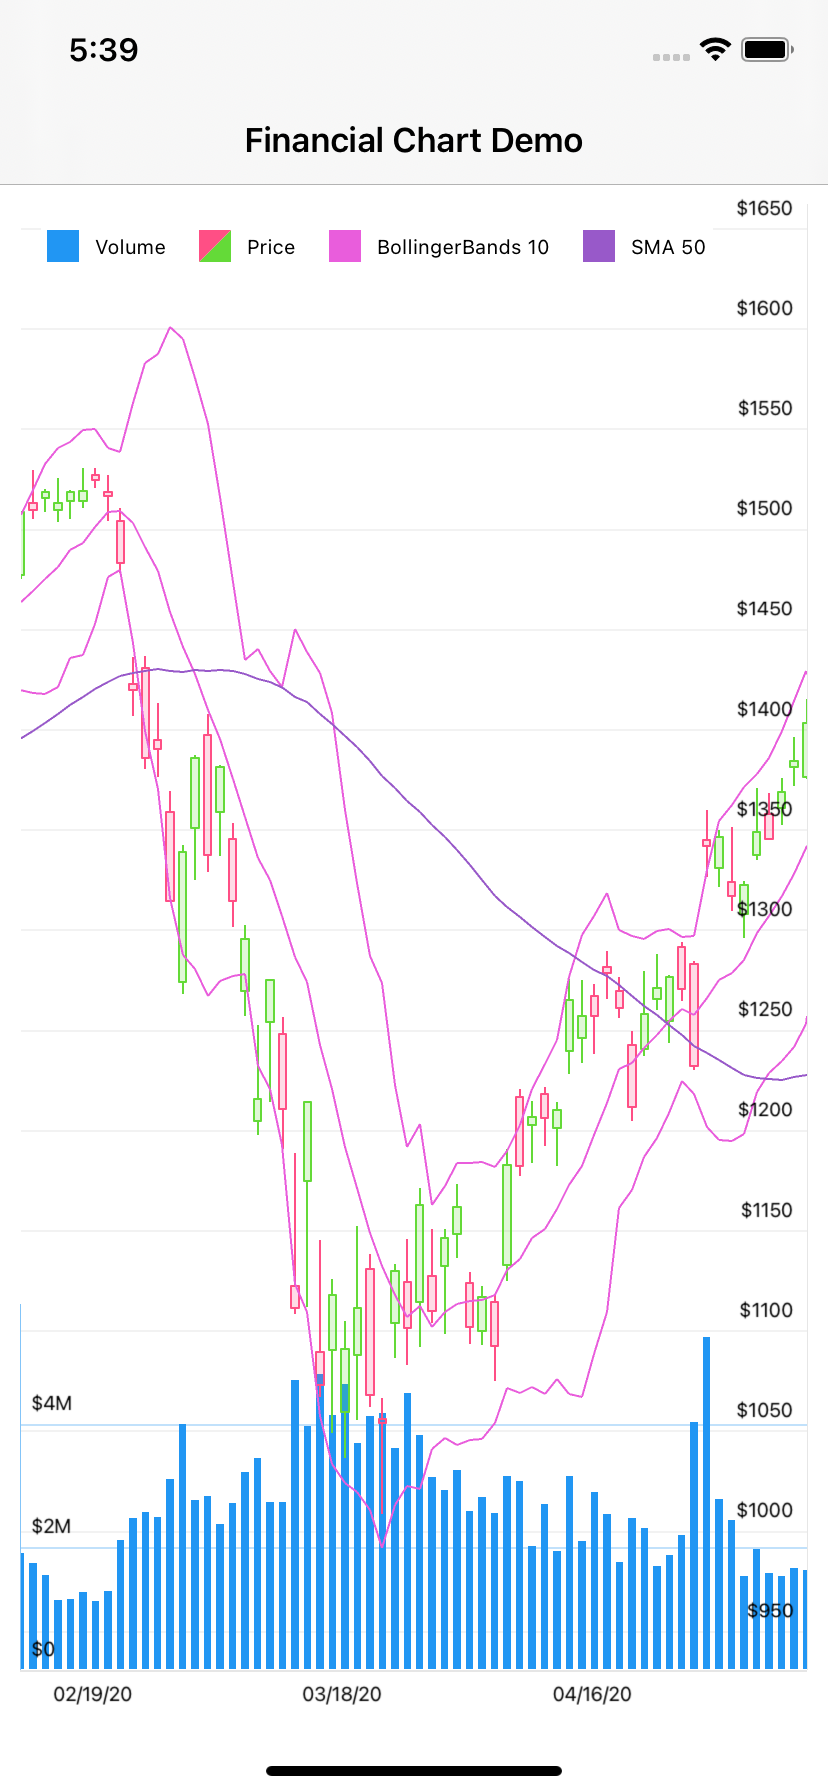
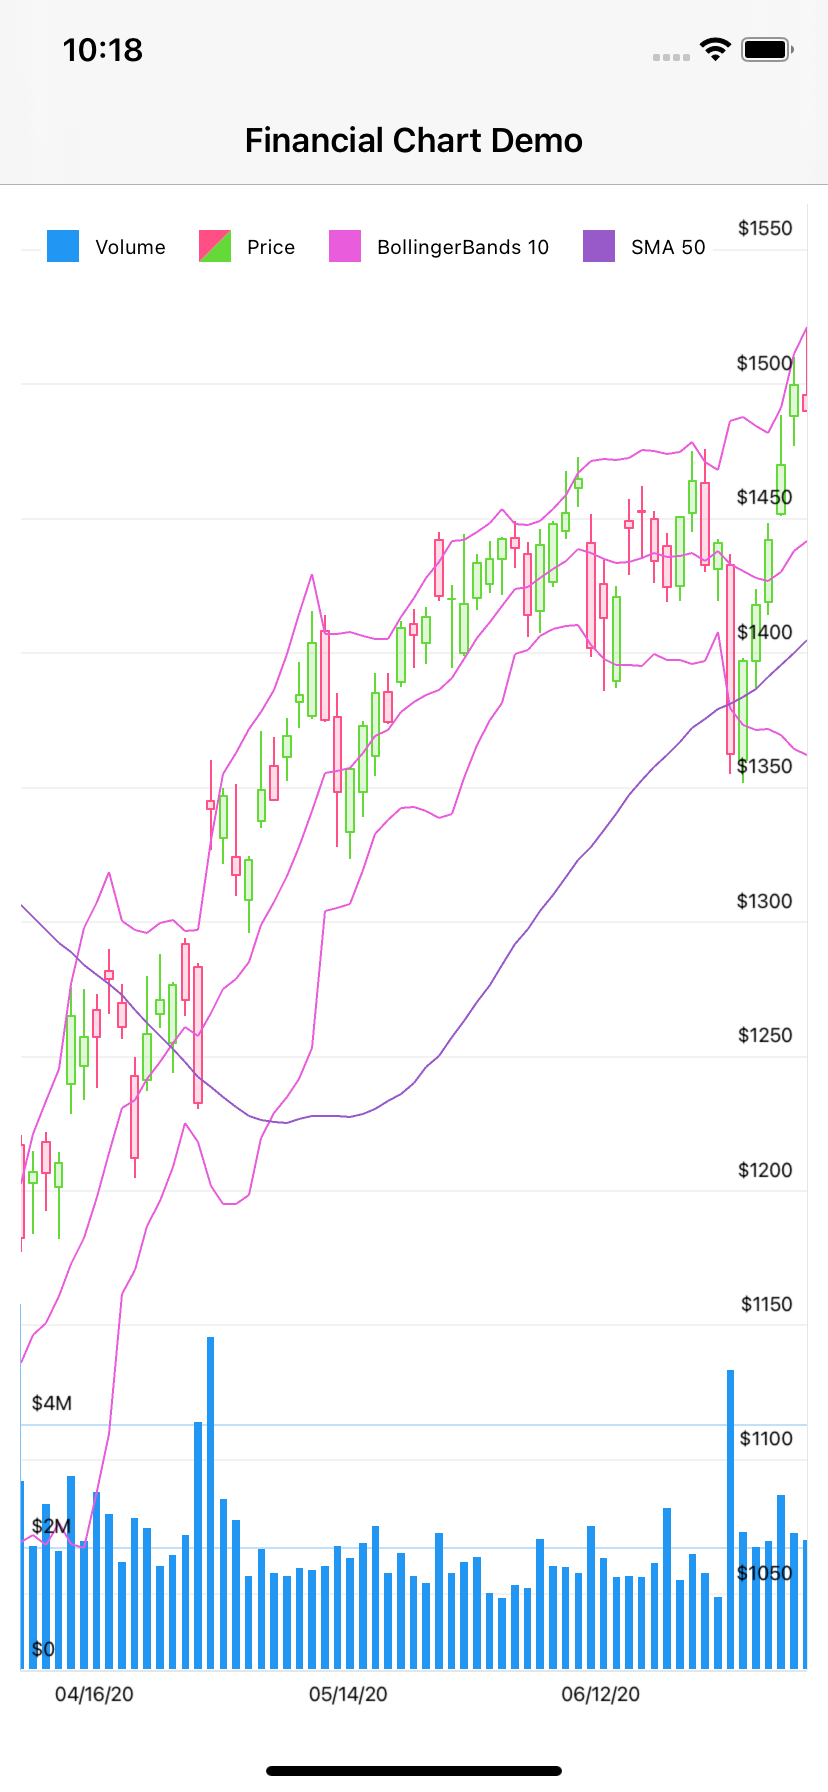
default range changed

diff --git a/CS/FinancialChartExample/ViewModels/MainViewModel.cs b/CS/FinancialChartExample/ViewModels/MainViewModel.cs
@@ -9,8 +9,8 @@ namespace FinancialChartExample.ViewModels {
         public MainViewModel() {
             StockPrices = StockData.GetStockPrices();
             VisualRange = new DateTimeRange() {
-                VisualMin = new System.DateTime(2020, 02, 10),
-                VisualMax = new System.DateTime(2020, 05, 10)
+                VisualMin = new System.DateTime(2020, 04, 07),
+                VisualMax = new System.DateTime(2020, 07, 07)
             };
         }
     }
